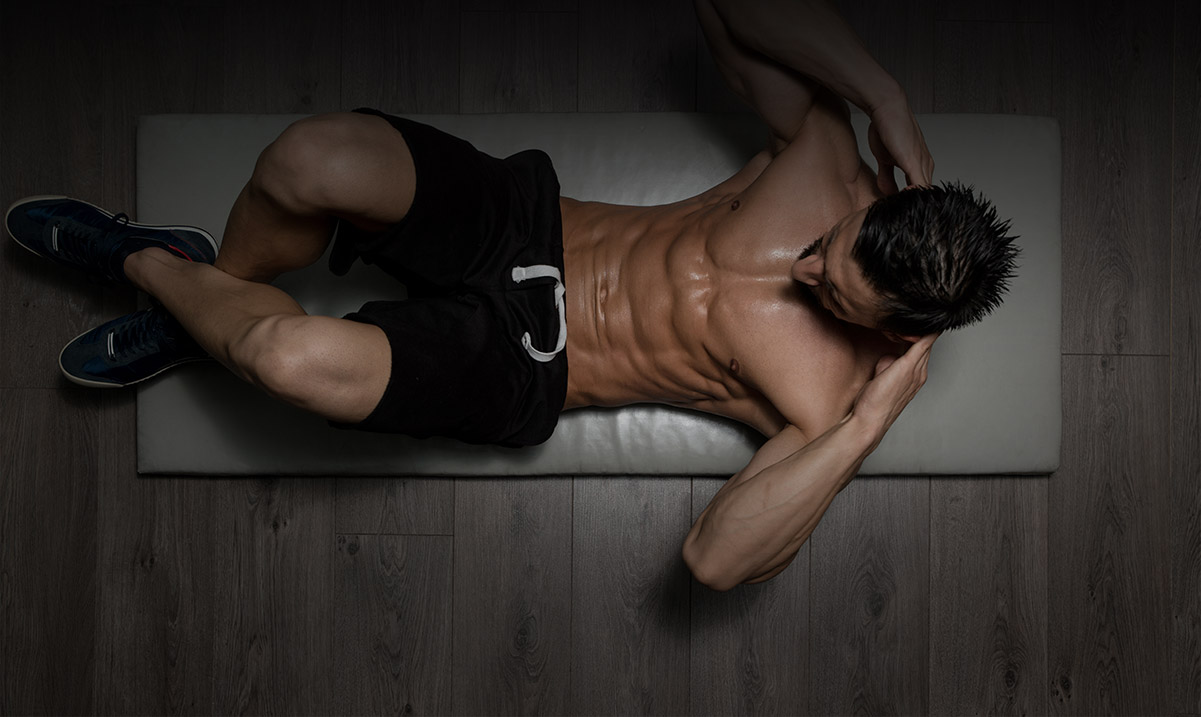
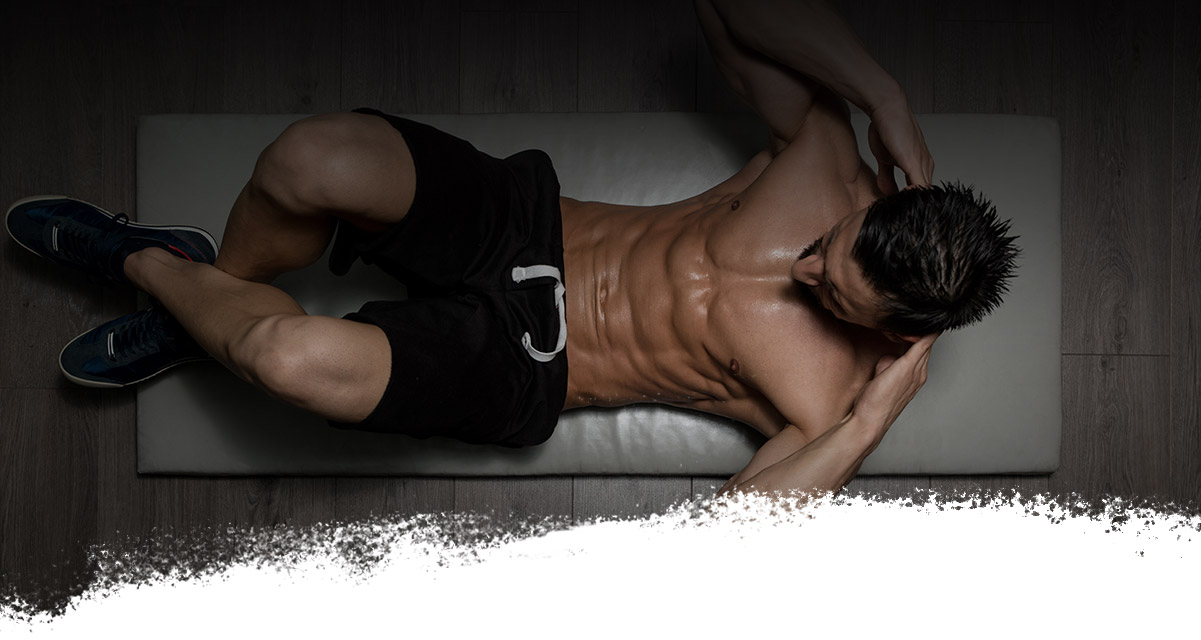
publico cambios

diff --git a/src/main/resources/templates/public/index.html b/src/main/resources/templates/public/index.html
@@ -28,8 +28,8 @@
           <ol>
             <li class="col-md-3">
               <div class="item"><img th:src="@{/img/public/entrena-1.png}+'?'+${version}"/>
-                <h2>Conectate con tu Coach</h2>
-                <p>La confianza proviene de la metodología perfecta combinada con las mejores herramientas</p>
+                <h2>Contáctate con tu Coach</h2>
+                <p>Un experto te guiará de forma personalizada en el camino para el logro de tus objetivos</p>
               </div>
             </li>
             <li class="col-md-3">
@@ -82,13 +82,13 @@
             <div class="container-absolute-bottom">
               <ul class="deportistas_name text-center">
                 <li class="col-md-3">
-                  <p> <span>ANDY MARTINEZ</span></p>
+                  <p> <span>ANDY MARTÍNEZ</span></p>
                 </li>
                 <li class="col-md-3">
                   <p> <span>SALVADOR RUIZ</span></p>
                 </li>
                 <li class="col-md-3">
-                  <p> <span>JOSE LUIS MANDROS</span></p>
+                  <p> <span>JOSÉ LUIS MANDROS</span></p>
                 </li>
                 <li class="col-md-3">
                   <p> <span>DENNYS GORINA</span></p>
@@ -105,7 +105,7 @@
             </p>
           </div>
           <div class="container description_collaborator andy-tab" style="display: none">
-            <h3 class="title_person">Andy Martinez</h3>
+            <h3 class="title_person">Andy Martínez</h3>
             <p class="description_person">Considerado el hombre más rápido del Perú y un velocista nato.</p>
             <ul>
               <li>
@@ -162,7 +162,7 @@
             </ul>
           </div>
           <div class="container description_collaborator jose-tab" style="display: none">
-            <h3 class="title_person">Jose Luis Mandros</h3>
+            <h3 class="title_person">José Luis Mandros</h3>
             <p class="description_person">A sus 19 años, obtuvo un record de salto largo de 7.91, consagrándose como el 7mo en el mundo. </p>
             <ul>
               <li>
@@ -191,7 +191,7 @@
             <h3>Encuentra a tu coach</h3>
             <p>Deja que un experto te ayude en cada paso del camino. Elige al especialista que se adecue a tus necesidades. </p>
             <div class="col-md-12"></div>
-            <a th:href="@{/p/busqueda/trainers}"><button class="btn btn-default" type="button">Encuentralo</button></a>
+            <a th:href="@{/p/busqueda/trainers}"><button class="btn btn-default" type="button">Encuéntralo</button></a>
           </div>
         </div>
         <div class="col-md-6 tienda">

diff --git a/src/main/resources/templates/html-commons/p/header.html b/src/main/resources/templates/html-commons/p/header.html
@@ -1,14 +1,14 @@
 <nav th:fragment="fg-header" class="navbar navbar-inverse navbar-fixed-top">
     <div class="container">
         <div class="text-right view-only-desktop">
-            <p class="login_link" onclick="javascript:document.querySelector('.login').classList.add('active')">Iniciar sesión</p>
+            <p class="login_link" onclick="javascript:document.querySelector('.login').classList.add('active')">INICIAR SESIÓN</p>
         </div>
         <div class="navbar-header">
             <a class="navbar-brand" th:href="@{/p/inicio}"><img class="logo-header" th:src="@{/img/public/logo.png}+'?'+${version}"/></a>
             <span class="fa fa-bars view-only-mobile hamburguer"></span>
         </div>
         <ul class="nav navbar-nav navbar-right view-only-desktop">
-            <li><a th:href="@{/p/quienes-somos}" data-menu="aboutus"> <span>QUIENES SOMOS</span></a></li>
+            <li><a th:href="@{/p/quienes-somos}" data-menu="aboutus"> <span>QUIÉNES SOMOS</span></a></li>
             <li><a th:href="@{/p/contigo}" data-menu="atletas"> <span>ATLETAS</span></a></li>
             <li class="dropdown" data-menu="asesores"><a th:href="@{/p/asesores}" data-menu="asesores" data-toggle="dropdown"><span>ASESORES</span></a>
                 <ul class="dropdown-menu">
@@ -34,7 +34,7 @@
             <p class="email" th:if="${#authentication != null}" th:text="${#authentication.name}"></p>
         </div>
         <ul class="options">
-            <li><a th:href="@{/p/quienes-somos}"> <span>QUIENES SOMOS</span></a></li>
+            <li><a th:href="@{/p/quienes-somos}"> <span>QUIÉNES SOMOS</span></a></li>
             <li><a th:href="@{/p/contigo}" data-menu="atletas"> <span>ATLETAS</span></a></li>
             <li><a th:href="@{/p/busqueda/trainers}"><span>ASESORES</span></a></li>
             <li><a th:href="@{/p/postulacion/trainer}"> <span>EMPRENDE CON NOSOTROS</span></a></li>

diff --git a/src/main/resources/templates/html-commons/p/css.html b/src/main/resources/templates/html-commons/p/css.html
@@ -3,6 +3,6 @@
     <link rel="stylesheet" type="text/css" th:href="@{/css/public/font-awesome.min.css}+'?'+${version}"/>
     <link rel="stylesheet" type="text/css" th:href="@{/css/public/bootstrap.min.css}+'?'+${version}"/>
     <link rel="stylesheet" type="text/css" th:href="@{/css/public/owl.carousel.min.css}+'?'+${version}"/>
-    <link rel="stylesheet" type="text/css" th:href="@{/css/public/style.min.css}+'?'+${version}"/>
+    <link rel="stylesheet" type="text/css" th:href="@{/css/public/style.css}+'?'+${version}"/>
     <link rel="stylesheet" type="text/css" th:href="@{/css/public/smartadmin-production-plugins.min.css}+'?'+${version}" media="screen"/>
 </th:block>

diff --git a/src/main/resources/static/css/public/style.css b/src/main/resources/static/css/public/style.css
@@ -1492,15 +1492,13 @@ h1 {
   width: 100%
 }
 
-.banner.home img {
-  width: 100%
-}
-
 .banner.home img.banner-home {
   width: 100%;
-  height: auto;
+  height: 100%;
   position: relative;
-  z-index: 1
+  z-index: 1;
+  object-fit: cover;
+  object-position: bottom;
 }
 
 .banner.home img.detail {
@@ -1513,8 +1511,8 @@ h1 {
 .banner .title-page h1 {
   font-family: Gotham-HTF-Black-Italic, 'system-ui';
   position: absolute;
-  z-index: 2;
-  top: 280px;
+  z-index: 3;
+  top: 25%;
   font-size: 72.25px;
   color: #fff;
   padding-left: 55px

diff --git a/src/main/resources/static/js/public/init.js b/src/main/resources/static/js/public/init.js
@@ -368,6 +368,7 @@ $(function() {
         changecolor()
     });
     // initMap();
+    FullHeightBanner();
     openMenuMobile();
     tabColaboradores();
     time_line();
@@ -429,6 +430,14 @@ function validLoginForm(){
             }
         });
 }
+
+function FullHeightBanner() {
+    var altura = window.innerHeight;
+    var ancho = window.innerWidth;
+    if(ancho > 800) {
+        $(".banner .bg-image").height(altura);
+    }
+};
 
 (function(){
     validLoginForm();

diff --git a/src/main/resources/templates/public/contigo.html b/src/main/resources/templates/public/contigo.html
@@ -56,7 +56,7 @@
             <p>Deja que un experto te ayude en cada paso del camino. Elige al especialista que se adecue a tus necesidades. </p>
             <div class="col-md-12"></div>
               <a th:href="@{/p/busqueda/trainers}">
-                <button class="btn btn-default" type="button">Encuentralo</button>
+                <button class="btn btn-default" type="button">Encuéntralo</button>
               </a>
           </div>
         </div>

diff --git a/src/main/resources/templates/public/asesores.html b/src/main/resources/templates/public/asesores.html
@@ -56,7 +56,7 @@
         <p>Deja que un experto te ayude en cada paso del camino. Elige al especialista que se adecue a tus necesidades. </p>
         <div class="col-md-12">
           <a th:href="@{/p/busqueda/trainers}">
-            <button class="btn btn-default" type="button">Encuentralo</button>
+            <button class="btn btn-default" type="button">Encuéntralo</button>
           </a>
         </div>
       </div>
